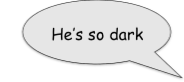
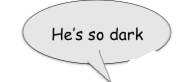
edited the position of text

Changed region(s): [[0.6793, 0.6098, 1.0, 0.9756], [0.462, 0.6585, 0.625, 1.0], [0.5163, 0.6098, 0.5435, 0.6585]]

diff --git a/css/boyCSS.css b/css/boyCSS.css
@@ -41,8 +41,8 @@ body{
     display: none;
     margin: 0 auto;
     position: absolute;
-    top: 10vw;
-    left: 18vw;
+    top: 8vw;
+    left: 22vw;
     max-width: 30%;
     max-height: 30%
   }
